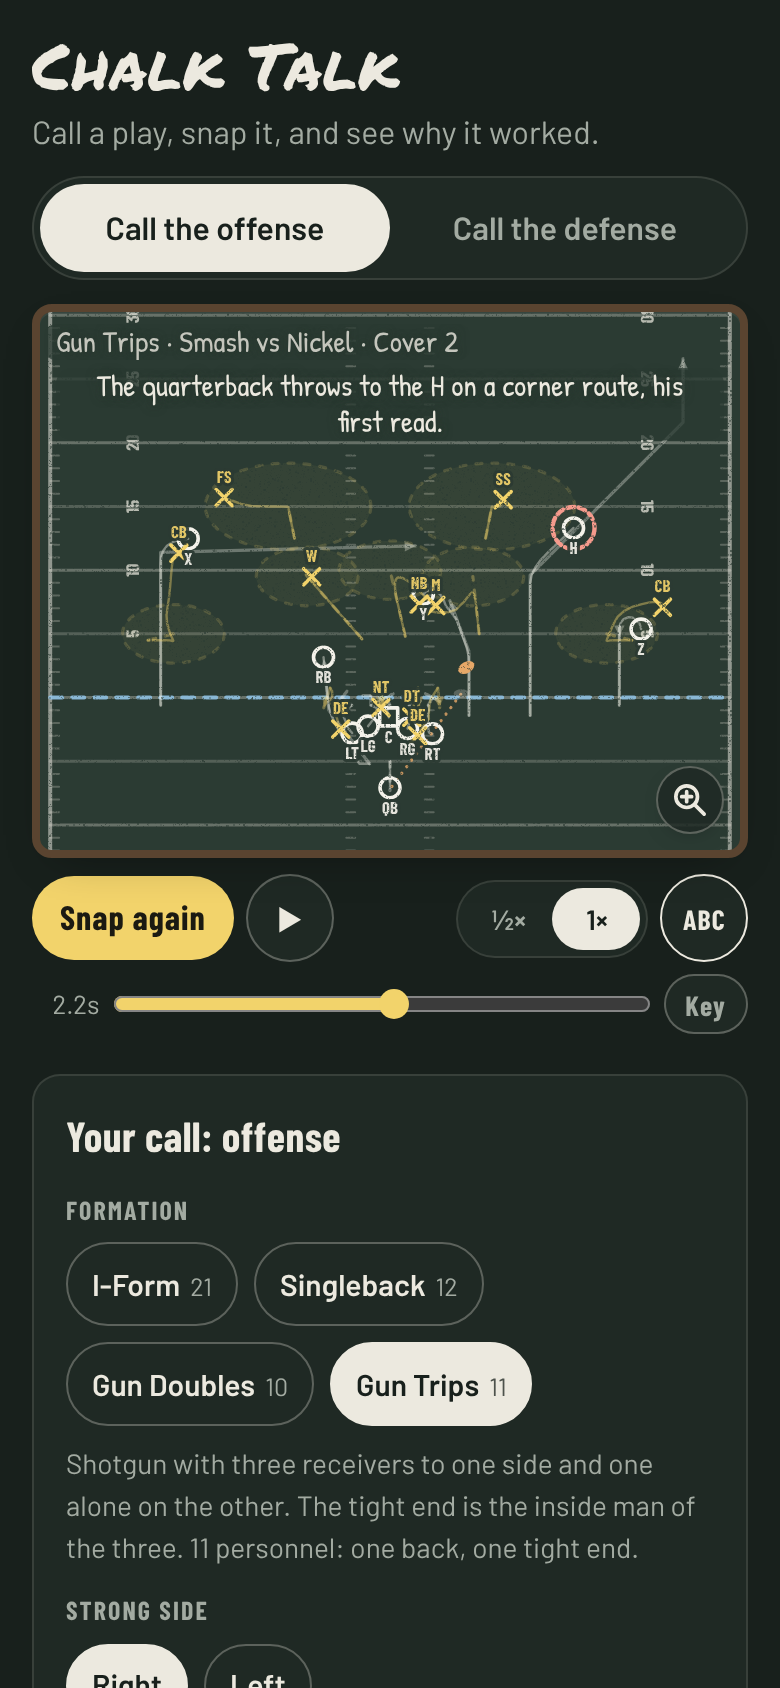
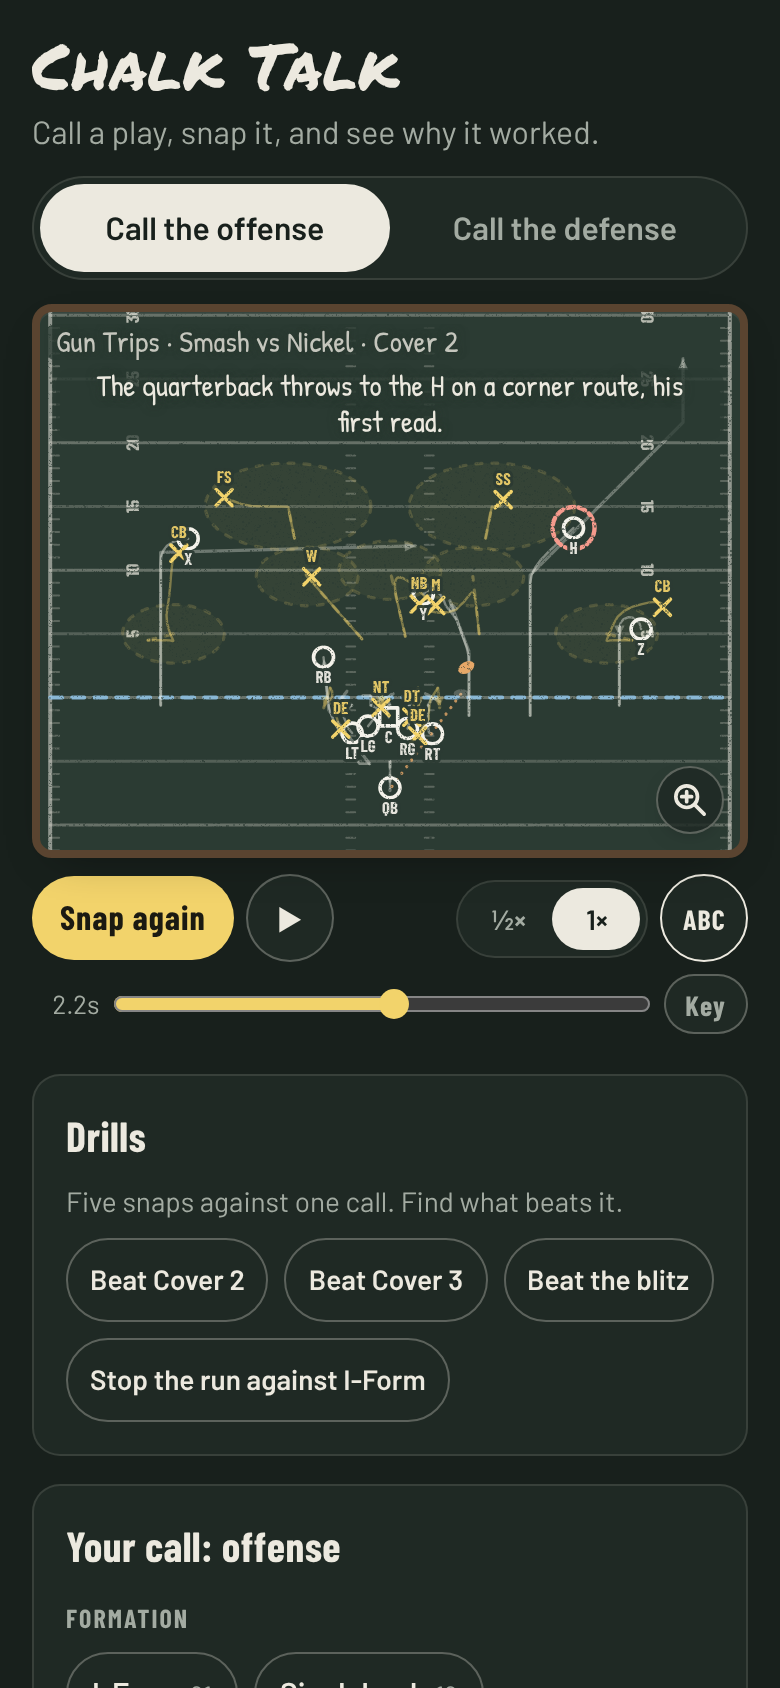
Pictures: the drills under the board
The README's first two phone pictures showed Your call under the board,
where the Drills card now sits. Redrawn from the same play, and the
first picture's description names the drills. The result picture and
the link preview come out the same.

Claude-Session: https://claude.ai/code/session_01PQbLNSsq21BnpoxvUaVtX1

Changed region(s): [[0.0615, 0.6469, 0.9231, 1.0]]

diff --git a/README.md b/README.md
@@ -5,7 +5,7 @@
 **A football coach's board you can run.** Call the offense or the defense, snap it, and watch every route, block, rush and coverage play out in Xs and Os. Afterwards it tells you what happened and why: who came free, how the call does against theirs, and how many blockers there were for the defenders in the box. Tap any player to learn his position and his job on that play.
 
 <p align="center">
-  <img src="docs/phone-call.png" alt="The board before the snap: Gun Trips against a nickel defense, with the routes for Smash drawn in white chalk and numbered in the order the quarterback reads them, and the defense's alignment in yellow Xs" width="250">
+  <img src="docs/phone-call.png" alt="The board before the snap: Gun Trips against a nickel defense, with the routes for Smash drawn in white chalk and numbered in the order the quarterback reads them, and the defense's alignment in yellow Xs; under the board, the drills: Beat Cover 2, Beat Cover 3, Beat the blitz and Stop the run against I-Form" width="250">
   &nbsp;
   <img src="docs/phone-play.png" alt="The same play two seconds after the snap: chalk trails show where everyone went, the zone drops are shaded, a dotted line follows the throw, and a caption reads 'The quarterback throws to the H on a corner route, his first read.', with the H ringed" width="250">
   &nbsp;
